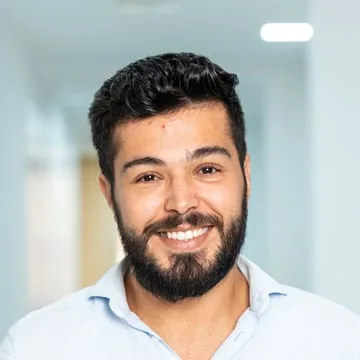
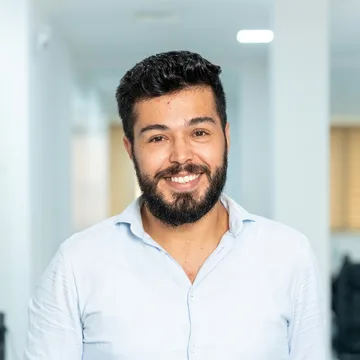
feat: update team photos and add Hadil Yangui
- Replace Karim Hbiri portrait with a better-framed photo
- Add Mariem Yousfi portrait
- Add Hadil Yangui (Software Engineer) to the engineering team (fr/en/ar)

diff --git a/lib/data/about.ts b/lib/data/about.ts
@@ -34,6 +34,7 @@ export const TEAM = [
     photo: '/team/Anwar-Ben-Mahmoud.webp',
     linkedin: '',
   },
+  { id: 'hadil-yangui', group: 'engineering', photo: '/team/Hadil-Yangui.webp', linkedin: '' },
   { id: 'marwa-kadri', group: 'agronomy', photo: '/team/Marwa-kadri.webp', linkedin: '' },
   {
     id: 'nour-el-houda-boughattas',
@@ -41,7 +42,7 @@ export const TEAM = [
     photo: '/team/Boughattas-Nour-El-Houda.webp',
     linkedin: '',
   },
-  { id: 'mariem-yousfi', group: 'agronomy', photo: undefined, linkedin: '' },
+  { id: 'mariem-yousfi', group: 'agronomy', photo: '/team/Mariem-Yousfi.webp', linkedin: '' },
 ] as const satisfies readonly Member[];
 
 export const TEAM_GROUPS = ['leadership', 'engineering', 'agronomy'] as const;

diff --git a/lib/data/team.ts b/lib/data/team.ts
@@ -68,6 +68,11 @@ export const TEAM_MEMBERS: TeamMember[] = [
     linkedin: 'https://www.linkedin.com/in/anwar-ben-mahmoud-746354102/',
   },
   {
+    id: 'hadil-yangui',
+    team: 'Engineering',
+    photo: '/team/Hadil-Yangui.webp',
+  },
+  {
     id: 'marwa-kadri',
     team: 'Agronomy',
     photo: '/team/Marwa-kadri.webp',
@@ -82,5 +87,6 @@ export const TEAM_MEMBERS: TeamMember[] = [
   {
     id: 'mariem-yousfi',
     team: 'Agronomy',
+    photo: '/team/Mariem-Yousfi.webp',
   },
 ];
